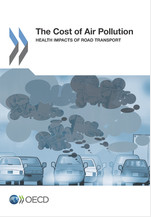
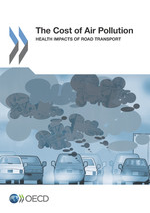
color and image quality

diff --git a/index.html b/index.html
@@ -14,19 +14,20 @@
 
     text.label { fill: #555; }
     text.label.start { text-anchor: end; }
-    line.slope1 {stroke: rgb(252,30,30); stroke-width: 1.5; }
-    line.slope2 {stroke: rgb(117,217,54); stroke-width: 1.5; }
+    /**line.slope1 {stroke: rgb(49,133,156); stroke-width: 1.5; }**/
+    line.slope1 {stroke: rgb(140,11,163); stroke-width: 1.5; }
+    line.slope2 {stroke: rgb(41,199,255); stroke-width: 1.5; }
 
     .missing text.label { display: none; }
     .missing line.slope { display: none; }
 
-    .over text.label { fill: rgb(76,120,184); font-size: 11px !important; font-weight: bold; cursor: default;}
-    .over line.slope1 { stroke: rgb(76,120,184); stroke-width: 2; }
-    .over line.slope2 { stroke: rgb(76,120,184); stroke-width: 2; }
+    .over text.label { fill: rgb(250,0,0); font-size: 11px !important; font-weight: bolder; cursor: default;}
+    .over line.slope1 { stroke: rgb(250,0,0); stroke-width: 2.5; }
+    .over line.slope2 { stroke: rgb(250,0,0); stroke-width: 2.5; }
 
-    #textToDisplay{ color: #777 ; font-size: 14px ; font-weight: normal; }
+    #textToDisplay{ color: #777 ; font-size: 13px ; font-weight: lighter; }
 
-    #costTextToDisplay{ color: #555 ; font-size: 12.5px ; font-weight: normal; }
+    #costTextToDisplay{ color: #666 ; font-size: 12.5px ; font-weight: normal; }
     
     .row {
 
@@ -159,7 +160,7 @@
 
   <div class="span2" id="costTextToDisplay"><br></div>
   <br>
-  <div ><a class="image" href="http://dx.doi.org/10.1787/9789264210448-en" target="_blank"> </a></div>
+  <div ><a class="image" href="http://dx.doi.org/10.1787/9789264210448-en" target="_blank" ><img src="data/costOfAirPollution.PNG"></img>  </a></div>
 </div>
 </body>
 
